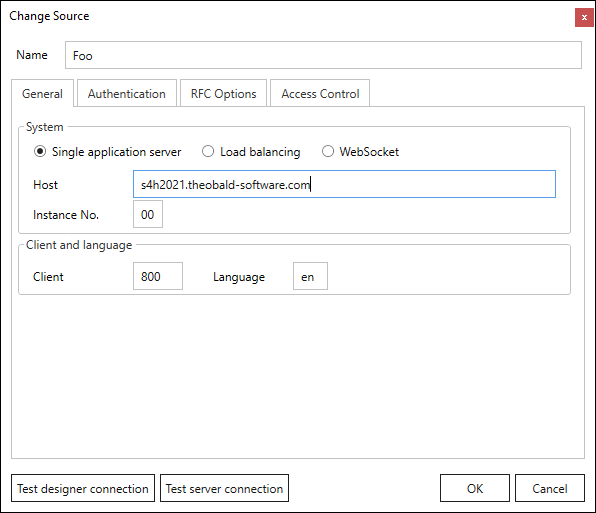
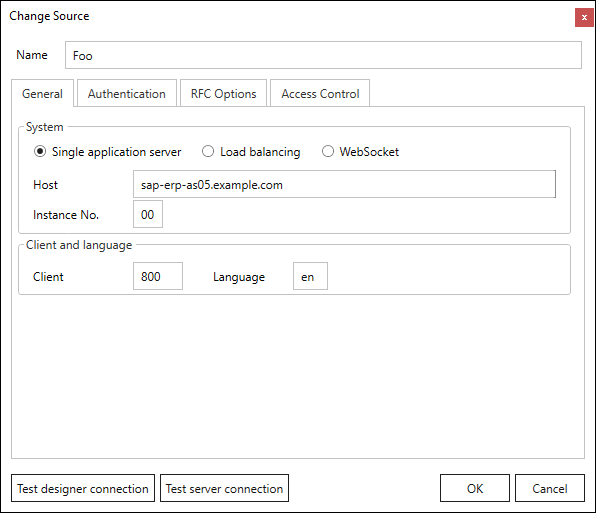
xu+bc getting started

Changed region(s): [[0.2416, 0.3431, 0.5436, 0.3743]]

diff --git a/includes/xu-bc-getting-started.md b/includes/xu-bc-getting-started.md
@@ -1,0 +1,95 @@
+
+### Installation
+
+![Designer-Login](assets/images/{{ abbr }}/getting-started/Designer-login.png){:class="img-responsive" align=right }
+
+1. [Download](https://theobald-software.com/en/download-trial/) a 30 days trial version of {{ productName }}.
+2. Run the {{ productName }} executable ({{ setup }}Setup.exe) to install the [{{ productName }} Designer and the {{ productName }} Server](documentation/introduction.md/#software-architecture).
+For information on system requirements, see [Requirements](documentation/setup/requirements.md).
+3. Make sure that the {{ productName }} Service is running on your windows system and that the default port {{ port }} is not blocked by your firewall.<br>
+4. Open the {{ productName }} Designer application and click **[:designer-connect: Connect]** to [connect to the {{ productName }} Server](documentation/designer.md/#connect-the-designer-to-a-server) using the default settings.<br>
+
+For more information, see [Documentation: Setup](documentation/setup/index.md).
+
+### Connect to SAP
+
+Before connecting to SAP for the first time, set up an SAP dialog user with the necessary [SAP Authorization Objects](documentation/setup-in-sap/sap-authority-objects.md/#general-authorization-objects).
+
+1. In the main window of the Designer, click **[:material-plus-thick:New]**. The window "Change Source" opens.<br>
+![new](../assets/images/{{ abbr }}/getting-started/new.png)
+2. Enter a name for the SAP connection in the field **Name**, e.g., *s4hana*, *bw*, etc.
+3. In the *General* tab, enter the system details of your SAP system.
+Input values for the SAP connection can be found in the *Properties* of the SAP Logon Pad or they can be requested from the SAP Basis team.<br>
+![sap-source-general](assets/images/documentation/sap-connection/sap-source-general.png){:class="img-responsive" }
+4. In the *Authentication* tab, enter the SAP credentials of the SAP dialog user.
+5. Click **[Test designer connection]** to validate the connection between the {{ productName }} Designer and the SAP system.
+6. Click **[Test server connection]** to validate the connection between the {{ productName }} Server and the SAP system.
+7. Click **[OK]** to save the SAP source. 
+
+For more information, see [Documentation: SAP Connection](documentation/sap-connection/index.md).
+
+!!! tip
+	To edit a source or to create new sources, navigate to **Server > Manage Sources** in the menu bar.
+	
+### Create an Extraction
+
+Extractions are the main entities of {{ productName }}. 
+An extraction defines what data to extract from SAP and in which target environment to write the data.
+
+1. In the main window of the Designer, click **[:material-plus-thick:New]**. The window "Create Extraction" opens.
+2. Select an SAP Connection from the drop-down menu in **Source** :number-1:.<br>
+![Create-Extraction](../assets/images/{{ abbr }}/getting-started/Create-Extraction.png)
+3. Enter a name for the extraction :number-2:.
+4. Select one of the following extraction types :number-3::
+
+	|  {{ Component }}  |  Description   |  
+	|----------|-------------|
+	| [:component-bapi: {{ bapi }}](documentation/bapi/index.md) | Execute BAPIs and Function Modules. |
+	| [:component-bwcube: {{ bwcube }}](documentation/bwcube/index.md) | Extract data from SAP BW InfoCubes and BEx Queries. |
+	| [:component-hierarchy: {{ hierarchy }}](documentation/hierarchy/index.md) | Extract Hierarchies from an SAP BW / BI system. |
+	| [:component-deltaq: {{ deltaq }}](documentation/deltaq/index.md) | Extract data from DataSources (OLTP) and extractors from ERP and ECC systems. |
+	| [:component-odp: {{ odp }}](documentation/odp/index.md) | Extract data via the SAP Operational Data Provisioning (ODP) framework. |
+	| [:component-ohs: {{ ohs }}](documentation/ohs/index.md) | Extract data from InfoSpokes and OHS destinations. |
+	| [:component-query: {{ query }}](documentation/query/index.md) | Extract data from ERP queries. **Note: BEx queries are covered by {{ bwcube }}**. |
+	| [:component-report: {{ report }}](documentation/report/index.md) | Extract data from SAP ABAP reports. | 
+	| [:component-table: {{ table }}](documentation/table/index.md) | Extract data from SAP tables and views. |
+	| [:component-table-cdc: {{ tableCDC }}](documentation/table-cdc/index.md) | Extract delta data from SAP tables and views. |
+	
+5. Click **[OK]**. The main window of the extraction type opens automatically.
+
+Follow the instructions in the documentation of the selected {{ component }} to set up the extraction.
+
+#### How to Create a Simple Extraction for Beginners
+
+Follow the steps below to create a simple extraction that extracts customer master data from the SAP table KNA1:
+
+1. [Create an extraction](#create-an-extraction) that uses the {{ table }} {{ component }}.
+2. In the main window of the {{ component }}, click **[:material-plus-thick:Add]** to look up an SAP table. The window "Table Lookup" opens.<br>
+![table_main-window_add](assets/images/{{ abbr }}/documentation/table/table_main-window_add.png)
+3. In the field **Table Name**, enter the name of the table to extract (KNA1) :number-1:. Use wildcards (*) if needed.<br>
+![table_look-up](assets/images/documentation/components/table/table_look-up.png)
+4. Click **[:magnifying-glass:]** :number-2:. Search results are displayed.
+5. Select the table KNA1 :number-3: and click **[OK]**. The application returns to the main window of the {{ component }}.
+6. Optional: Select the table columns you want to extract. By default all columns are extracted. 
+For more information on filter options and advanced settings, see, [Documentation: Define the {{ table }} {{ Component }}](documentation/table/index.md/#define-the-table-extraction-type)
+7. Click {{ previewBtn }} to display a live preview of the first 100 records.
+8. Click **[OK]** to save the {{ component }}.
+
+The extraction is now listed in the main window of the Designer.
+
+!!! tip
+	To edit an extraction, double-click the extraction.
+
+### Run an Extraction
+
+Extractions can be run directly in the {{ productName }} Designer{% if page.meta.product == "xtract-universal" %} or via [web service](web-api.md) and [command line](documentation/execute-and-automate/call-via-commandline.md){% else %} or from Board, see [Documentation: Run Extractions in Board](documentation/run-extractions.md/#run-extractions-in-the-designer){% endif %}.
+
+1. In the main window of the Designer, select an extraction :number-1: and click **[:designer-run:Run]** :number-2:. The window "Run Extraction" opens.
+![Run-Extraction](assets/images/{{ abbr }}/getting-started/Run-Extraction.png)
+2. Click {{ runBtn }} :number-3: to execute the extraction.{% if page.meta.product == "board-connector" %}
+If the extraction runs successfully, the extracted data is displayed in your browser. {% else %}
+The status in the subsection *General Info* indicates if the extraction finished successfully.
+3. Open the *Output* tab to view the extracted data :number-4:. 
+{% endif %}
+
+For more information, see {% if page.meta.product == "xtract-universal" %}[Execute and Automate](documentation/execute-and-automate/index.md){% else %}[Run Extractions](documentation/run-extractions.md){% endif %}.

diff --git a/projects/xtract-universal/docs/getting-started.md b/projects/xtract-universal/docs/getting-started.md
@@ -11,29 +11,12 @@ tags:
 
 ![img](site:assets/images/logos/theo-thumbs.png){ .lg .middle width="30px"} This section shows how to install and set up {{ productName }} for the first time.
 
-### Installation
+{% include "xu-bc-getting-started.md" %}
 
-1. [Download](https://theobald-software.com/en/download-trial/) a 30 days trial version of yunIO.
-2. Run the yunIO executable (yunIOSetup.exe) to install yunIO.
-For information on system requirements, see [Requirements](documentation/setup/requirements.md).
-3. Make sure that the YunIO Service is running on your windows system and that the default port 8077 is not blocked by your firewall.<br>
-4. Open the yunIO Designer at `http://localhost:8077/` in a [web browser](documentation/setup/requirements.md#supported-web-browsers) of your choice.<br>
-If the yunIO service does not run on the same machine as the browser, replace `localhost` with the name or IP address of the host on which the service runs.
 
-For more information, see [Documentation: Installation](documentation/setup/installation-and-update.md).
+### Target Environments
 
-### Connect to SAP
+{{ productName }} allows you to load data to a wide range of target environments, including databases, cloud storages, BI tools, etc.
+By default, extractions use the [**http-csv**](documentation/destinations/csv-via-http.md) destination as a target environment.
 
-Before connecting to SAP for the first time, set up an SAP dialog user with the necessary [SAP Authorization Objects](documentation/setup-in-sap/sap-authority-objects.md/#general-authorization-objects).
-
-1. Navigate to the  :yunio-nav-connections: *Connections* menu at the left side navigation area of the Designer.
-2. Click **[Add Connection]** to create a new SAP connection.<br>
-3. Enter the system details of your SAP system in the subsection *System*.<br>
-4. Enter the SAP credentials of the SAP dialog user in the subsection *Authentication*.
-5. Click **[Test Connection]** to validate the connection parameters. A window with a status message opens.
-6. Click **[Save]** to save the connection settings. <br>
-
-![yunIO-connection](./assets/images/yunio/getting-started/yunio-connections.gif){:class="img-responsive" style="border:1px solid black" }
-
-For more information, see [Documentation: SAP Connection](documentation/sap-connection/index.md).
-
+For information on how to set up and assign custom destinations to an extraction, see [Documentation: Destinations](documentation/destinations/index.md).

diff --git a/projects/board-connector/docs/getting-started.md b/projects/board-connector/docs/getting-started.md
@@ -11,29 +11,5 @@ tags:
 
 ![img](site:assets/images/logos/theo-thumbs.png){ .lg .middle width="30px"} This section shows how to install and set up {{ productName }} for the first time.
 
-### Installation
-
-1. [Download](https://theobald-software.com/en/download-trial/) a 30 days trial version of yunIO.
-2. Run the yunIO executable (yunIOSetup.exe) to install yunIO.
-For information on system requirements, see [Requirements](documentation/setup/requirements.md).
-3. Make sure that the YunIO Service is running on your windows system and that the default port 8077 is not blocked by your firewall.<br>
-4. Open the yunIO Designer at `http://localhost:8077/` in a [web browser](documentation/setup/requirements.md#supported-web-browsers) of your choice.<br>
-If the yunIO service does not run on the same machine as the browser, replace `localhost` with the name or IP address of the host on which the service runs.
-
-For more information, see [Documentation: Installation](documentation/setup/installation-and-update.md).
-
-### Connect to SAP
-
-Before connecting to SAP for the first time, set up an SAP dialog user with the necessary [SAP Authorization Objects](documentation/setup-in-sap/sap-authority-objects.md/#general-authorization-objects).
-
-1. Navigate to the  :yunio-nav-connections: *Connections* menu at the left side navigation area of the Designer.
-2. Click **[Add Connection]** to create a new SAP connection.<br>
-3. Enter the system details of your SAP system in the subsection *System*.<br>
-4. Enter the SAP credentials of the SAP dialog user in the subsection *Authentication*.
-5. Click **[Test Connection]** to validate the connection parameters. A window with a status message opens.
-6. Click **[Save]** to save the connection settings. <br>
-
-![yunIO-connection](./assets/images/yunio/getting-started/yunio-connections.gif){:class="img-responsive" style="border:1px solid black" }
-
-For more information, see [Documentation: SAP Connection](documentation/sap-connection/index.md).
+{% include "xu-bc-getting-started.md" %}
 

diff --git a/includes/components/table/define-a-table-extraction.md b/includes/components/table/define-a-table-extraction.md
@@ -17,7 +17,7 @@ The {{ table }} {{ component }} offers the following options for table extractio
 
 1. Select the columns you want to extract. By default all columns are selected. Deselect the columns you do not want to extract.<br>
 ![Table-Form](../../assets/images/{{ abbr }}/documentation/table/table_fields_filter.png){:class="img-responsive"}
-2. Define a [WHERE clause](where-clause.md) or a [HAVING clause](having-clause.md) to filter table records. By default all data is extracted.
+2. Optional: Define a [WHERE clause](where-clause.md) or a [HAVING clause](having-clause.md) to filter table records. By default all data is extracted.
 3. Optional: Join two or more tables and extract the result of the join. For more information, see [Table Joins](table-join.md).
 4. Click {{ previewBtn }} to display a live preview of the first 100 records. 
 5. Check the [{{ Settings }}](settings.md){% if page.meta.product == "xtract-universal" or page.meta.product == "board-connector"%} and the [General Settings](general-settings.md){% endif %} before running the {{ extraction }}.

diff --git a/projects/xtract-universal/docs/documentation/organize-extractions.md b/projects/xtract-universal/docs/documentation/organize-extractions.md
@@ -1,6 +1,7 @@
 ---
 title: Organize Extractions
 description: How to group extractions
+status: new
 ---
 
 This page shows how to organize extractions in groups to improve maintenance.
